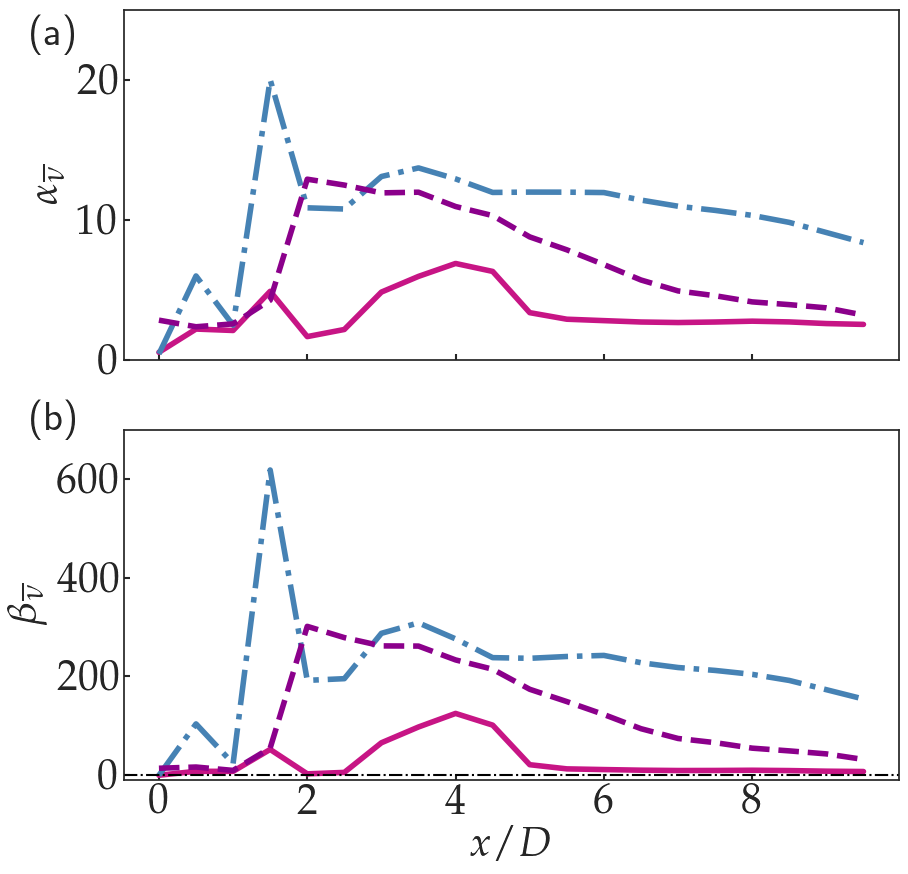
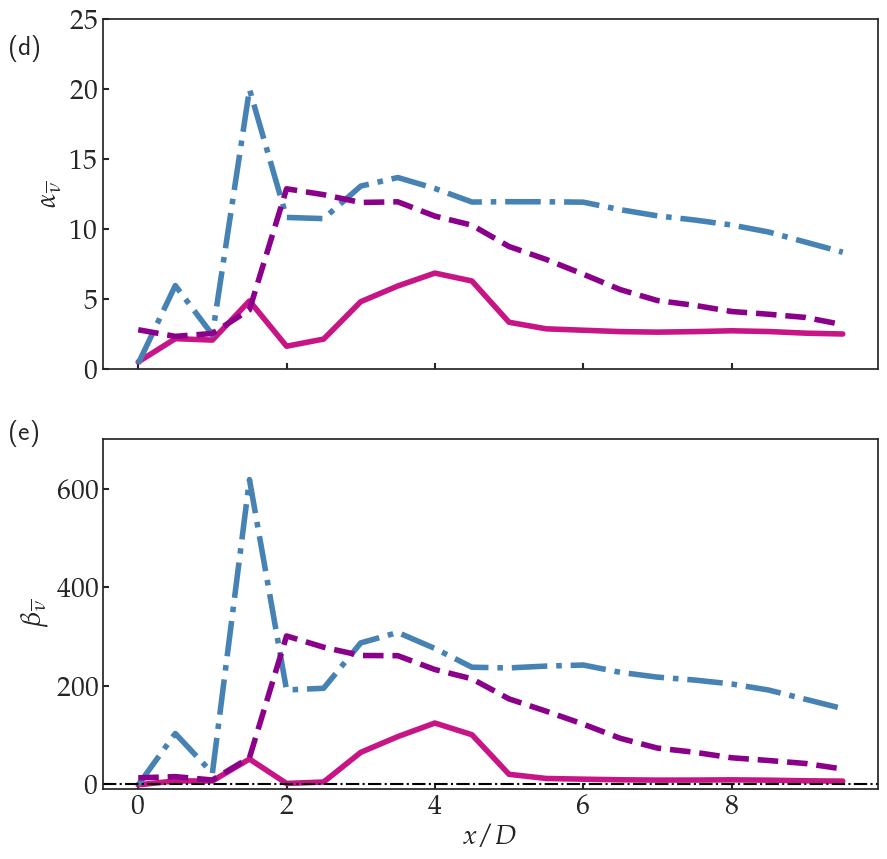
modify text

diff --git a/userHistogram/userHistogram.py b/userHistogram/userHistogram.py
@@ -283,8 +283,8 @@ def main():
     ax[1].set_ylabel(r"$\beta_{\overline{\nu}}$")
     ax[1].set_xlabel(r"$x/D$")
 
-    ax[0].text(-0.12, 0.9,'(a)', transform=ax[0].transAxes)
-    ax[1].text(-0.12, 1.0,'(b)', transform=ax[1].transAxes)
+    ax[0].text(-0.12, 0.9,'(d)', transform=ax[0].transAxes)
+    ax[1].text(-0.12, 1.0,'(e)', transform=ax[1].transAxes)
     ax[0].set_xticklabels([])
     fig.savefig("./"+"higherOrderStat.png",  bbox_inches='tight')
               
